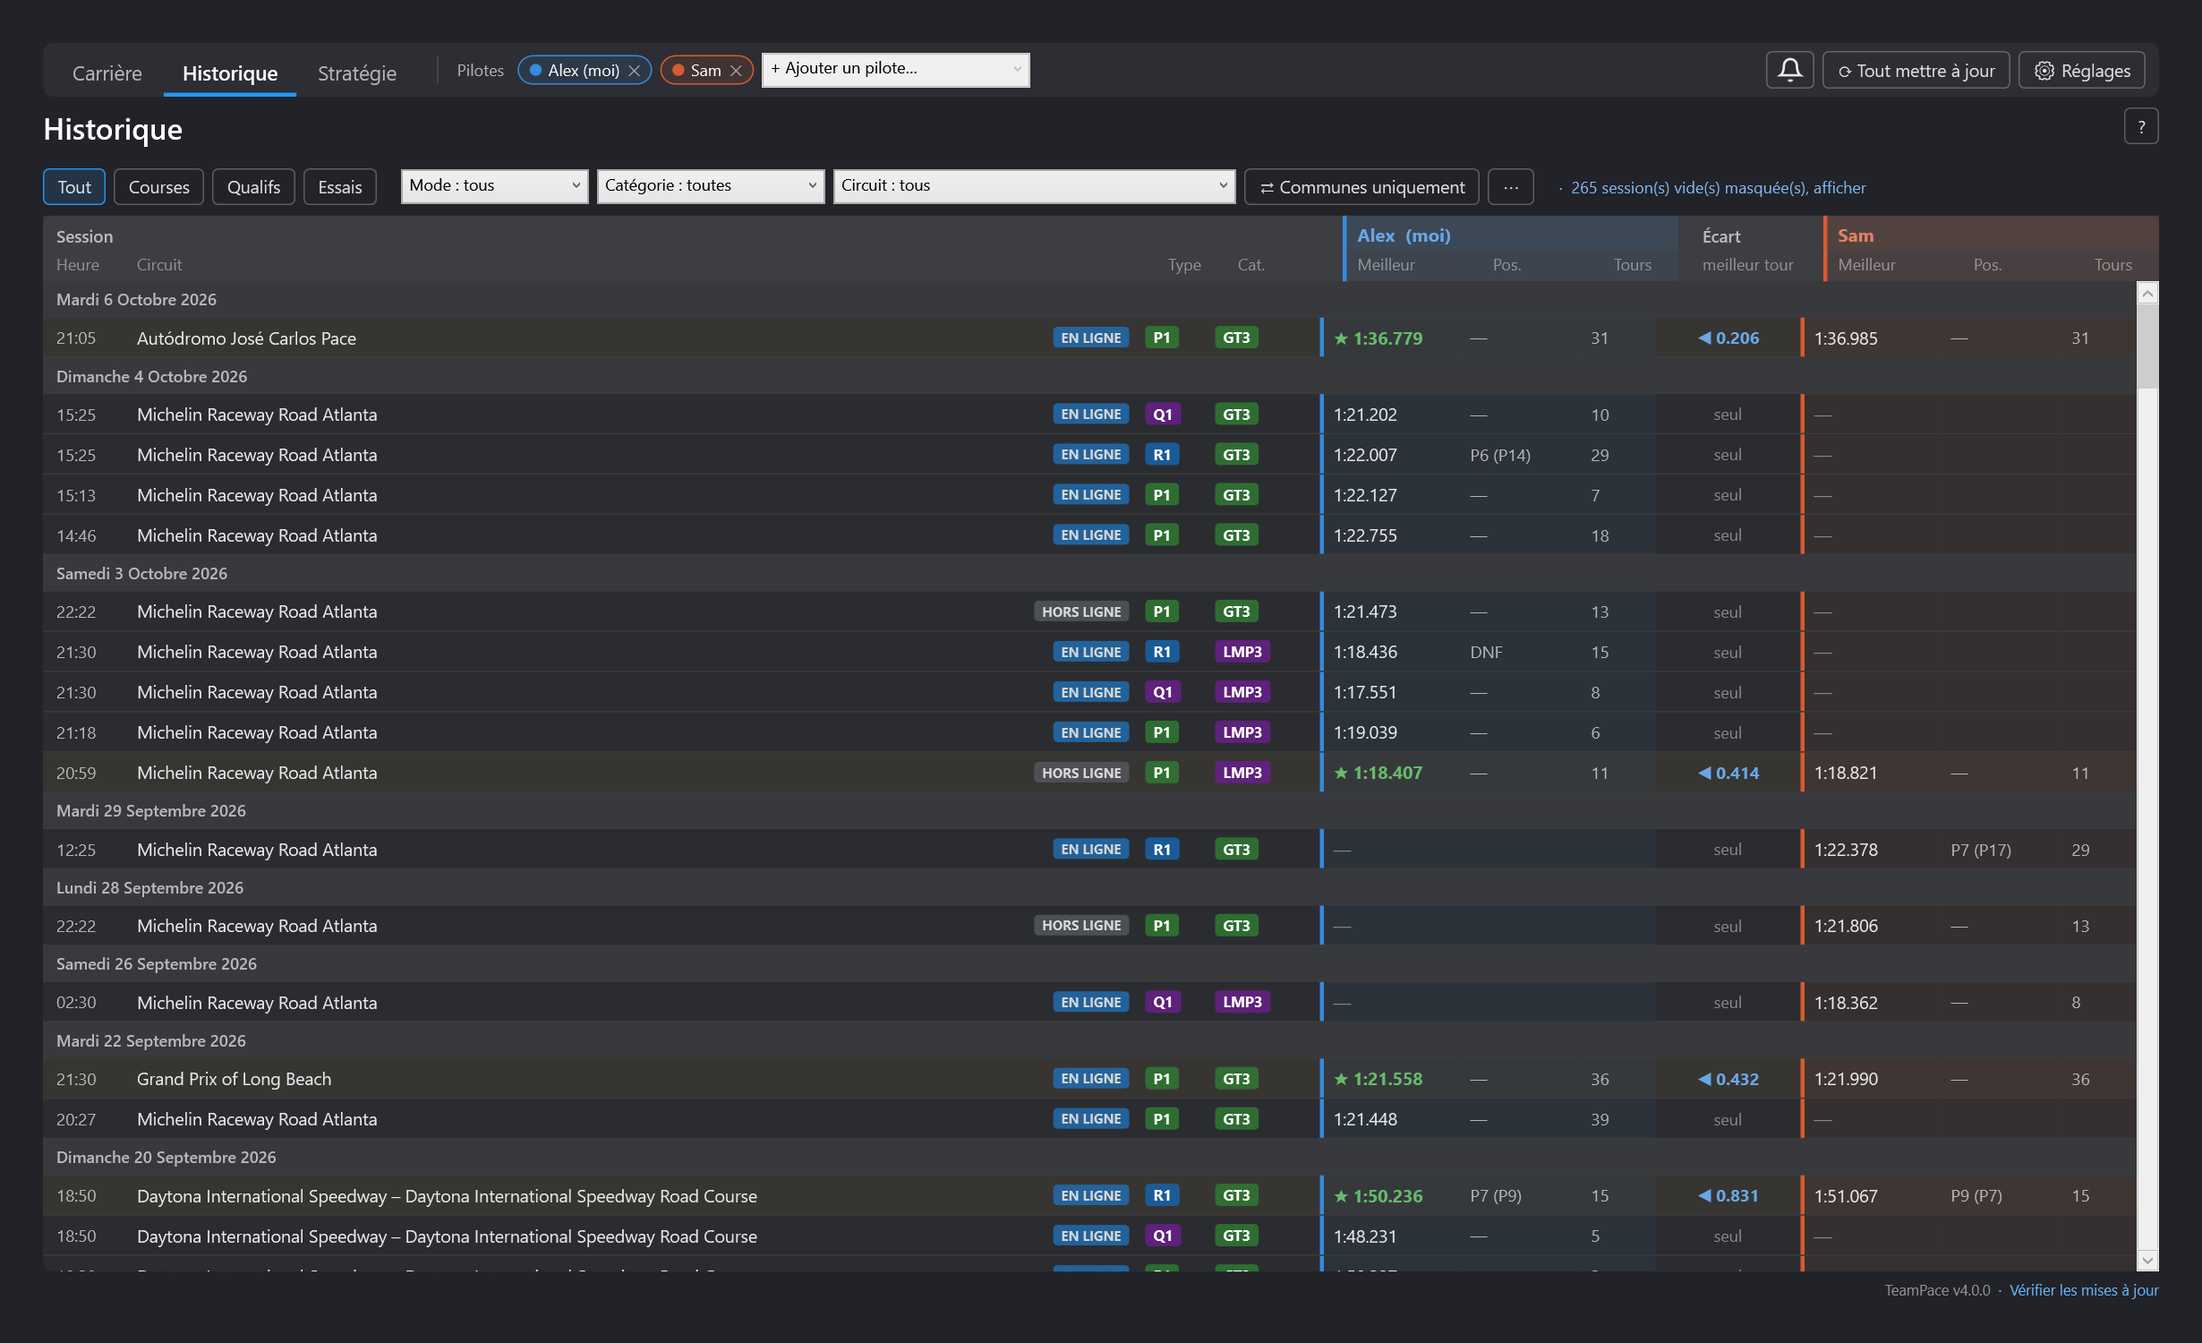
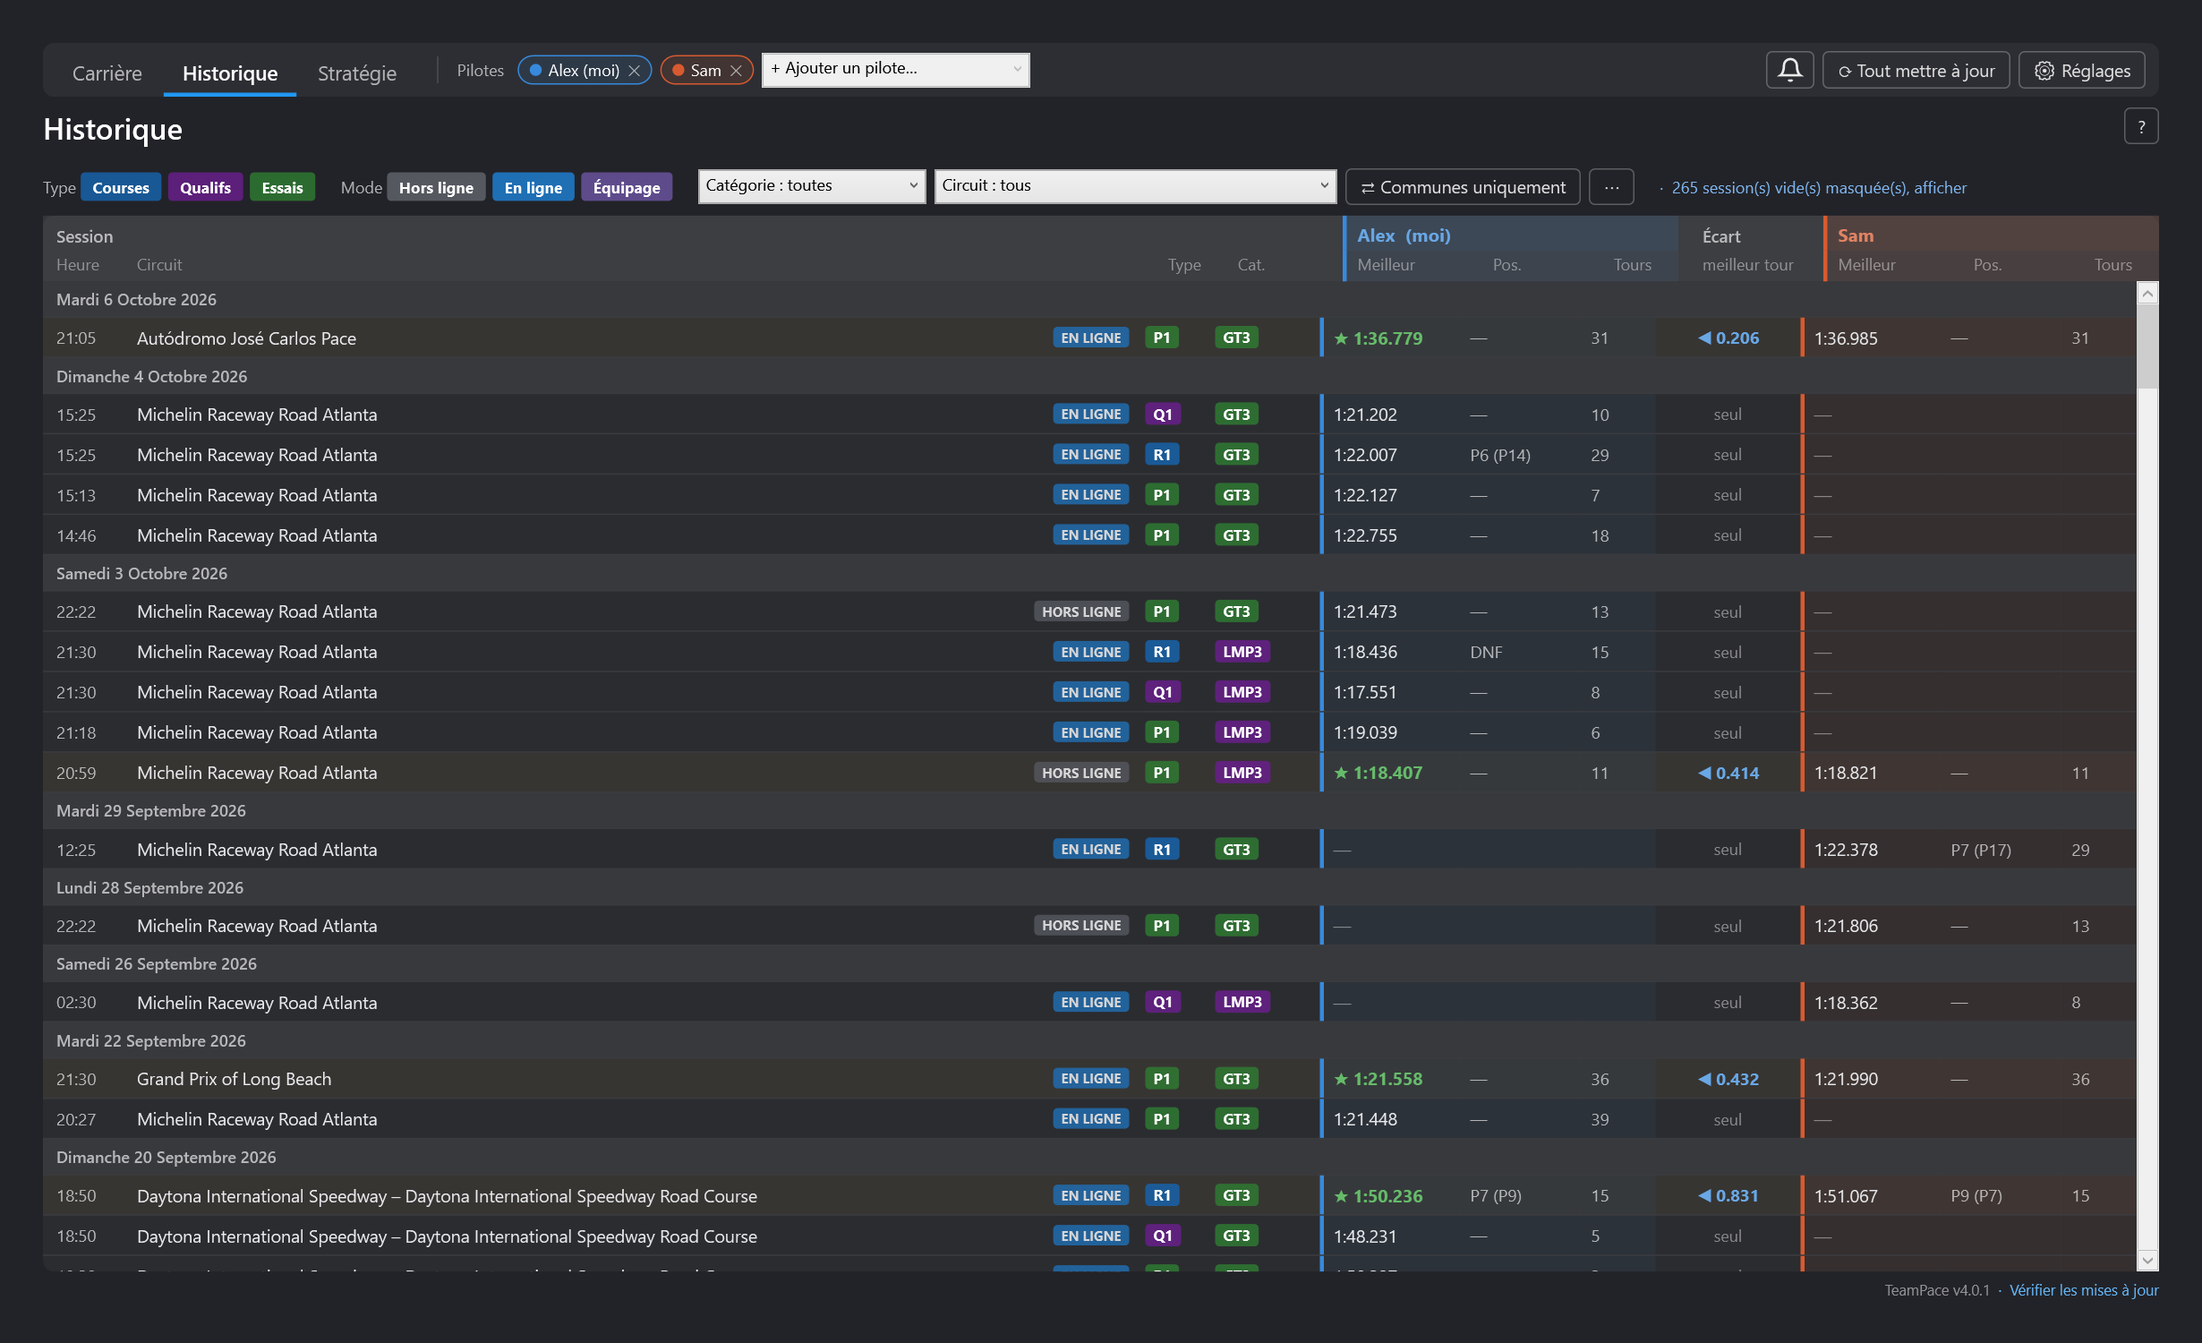
Release v4.0.2

Changed region(s): [[0.0, 0.1227, 0.3398, 0.1533], [0.5561, 0.1227, 0.865, 0.1533], [0.3707, 0.1227, 0.4325, 0.1533]]

diff --git a/AnalysisColumn.xaml b/AnalysisColumn.xaml
@@ -158,29 +158,29 @@
                 <TextBlock x:Name="TxtStVeTot" Style="{StaticResource BlockLine}"/>
             </StackPanel></Border>
 
-            <!-- The four tyres seen from above: wear per lap, the warmer the more worn -->
+            <!-- The car seen from above: four slim tyres coloured by their wear per lap, the value beside each -->
             <Border x:Name="StatsTirePanel" Style="{StaticResource AnaBlock}"><DockPanel>
                 <TextBlock DockPanel.Dock="Top" Style="{StaticResource BlockTitle}" Text="USURE PAR TOUR"/>
-                <Grid HorizontalAlignment="Center" Margin="0,2,0,0">
+                <Grid HorizontalAlignment="Center" Margin="0,4,0,0">
                     <Grid.ColumnDefinitions>
-                        <ColumnDefinition Width="58"/><ColumnDefinition Width="22"/><ColumnDefinition Width="58"/>
+                        <ColumnDefinition Width="52"/><ColumnDefinition Width="10"/><ColumnDefinition Width="30"/>
+                        <ColumnDefinition Width="10"/><ColumnDefinition Width="52"/>
                     </Grid.ColumnDefinitions>
                     <Grid.RowDefinitions>
-                        <RowDefinition Height="30"/><RowDefinition Height="8"/><RowDefinition Height="30"/>
+                        <RowDefinition Height="24"/><RowDefinition Height="10"/><RowDefinition Height="24"/>
                     </Grid.RowDefinitions>
-                    <Border Grid.Column="1" Grid.RowSpan="3" Width="10" Background="#22FFFFFF" CornerRadius="3"/>
-                    <Border x:Name="SqFL" Grid.Row="0" Grid.Column="0" CornerRadius="4" ToolTip="Avant gauche">
-                        <TextBlock x:Name="TxtStTireFL" FontSize="12.5" FontWeight="SemiBold" Foreground="White" HorizontalAlignment="Center" VerticalAlignment="Center"/>
-                    </Border>
-                    <Border x:Name="SqFR" Grid.Row="0" Grid.Column="2" CornerRadius="4" ToolTip="Avant droit">
-                        <TextBlock x:Name="TxtStTireFR" FontSize="12.5" FontWeight="SemiBold" Foreground="White" HorizontalAlignment="Center" VerticalAlignment="Center"/>
-                    </Border>
-                    <Border x:Name="SqRL" Grid.Row="2" Grid.Column="0" CornerRadius="4" ToolTip="Arrière gauche">
-                        <TextBlock x:Name="TxtStTireRL" FontSize="12.5" FontWeight="SemiBold" Foreground="White" HorizontalAlignment="Center" VerticalAlignment="Center"/>
-                    </Border>
-                    <Border x:Name="SqRR" Grid.Row="2" Grid.Column="2" CornerRadius="4" ToolTip="Arrière droit">
-                        <TextBlock x:Name="TxtStTireRR" FontSize="12.5" FontWeight="SemiBold" Foreground="White" HorizontalAlignment="Center" VerticalAlignment="Center"/>
-                    </Border>
+                    <!-- Body and axles -->
+                    <Border Grid.Column="2" Grid.RowSpan="3" CornerRadius="9,9,6,6" Background="#14FFFFFF" BorderBrush="#33FFFFFF" BorderThickness="1" Margin="0,-2,0,-2"/>
+                    <Border Grid.Column="1" Grid.ColumnSpan="3" Grid.Row="0" Height="2" Background="#33FFFFFF" VerticalAlignment="Center"/>
+                    <Border Grid.Column="1" Grid.ColumnSpan="3" Grid.Row="2" Height="2" Background="#33FFFFFF" VerticalAlignment="Center"/>
+                    <Border x:Name="SqFL" Grid.Row="0" Grid.Column="1" CornerRadius="3" ToolTip="Avant gauche"/>
+                    <Border x:Name="SqFR" Grid.Row="0" Grid.Column="3" CornerRadius="3" ToolTip="Avant droit"/>
+                    <Border x:Name="SqRL" Grid.Row="2" Grid.Column="1" CornerRadius="3" ToolTip="Arrière gauche"/>
+                    <Border x:Name="SqRR" Grid.Row="2" Grid.Column="3" CornerRadius="3" ToolTip="Arrière droit"/>
+                    <TextBlock x:Name="TxtStTireFL" Grid.Row="0" Grid.Column="0" FontSize="12.5" Foreground="#E6FFFFFF" HorizontalAlignment="Right" VerticalAlignment="Center" Margin="0,0,7,0"/>
+                    <TextBlock x:Name="TxtStTireFR" Grid.Row="0" Grid.Column="4" FontSize="12.5" Foreground="#E6FFFFFF" HorizontalAlignment="Left" VerticalAlignment="Center" Margin="7,0,0,0"/>
+                    <TextBlock x:Name="TxtStTireRL" Grid.Row="2" Grid.Column="0" FontSize="12.5" Foreground="#E6FFFFFF" HorizontalAlignment="Right" VerticalAlignment="Center" Margin="0,0,7,0"/>
+                    <TextBlock x:Name="TxtStTireRR" Grid.Row="2" Grid.Column="4" FontSize="12.5" Foreground="#E6FFFFFF" HorizontalAlignment="Left" VerticalAlignment="Center" Margin="7,0,0,0"/>
                 </Grid>
             </DockPanel></Border>
 

diff --git a/HistoryView.cs b/HistoryView.cs
@@ -26,7 +26,9 @@ namespace User.TeamPace
         }
 
         // Filters kept while browsing
-        private static string _type = "ALL", _class, _circuit, _mode;
+        private static string _class, _circuit;
+        private static readonly HashSet<string> _types = new HashSet<string>();   // "R", "Q", "P"; none = all
+        private static readonly HashSet<string> _modes = new HashSet<string>();   // "Hors ligne", "En ligne", "Équipage"; none = all
         private static bool _commonOnly, _simOnly, _showEmpty;
         private const int PageSize = 200;
 
@@ -92,8 +94,8 @@ namespace User.TeamPace
         private bool Passes(Event e)
         {
             var s = e.Any;
-            if (_type != "ALL" && !(s.SessionType ?? "").StartsWith(_type, StringComparison.OrdinalIgnoreCase)) return false;
-            if (_mode != null && Mode(e) != _mode) return false;
+            if (_types.Count > 0 && !_types.Contains(s.IsRace ? "R" : s.IsQuali ? "Q" : "P")) return false;
+            if (_modes.Count > 0 && !_modes.Contains(Mode(e))) return false;
             if (_class != null && LmuCategoryStyle.GetShortName(s.CarClass) != _class) return false;
             if (_circuit != null && s.TrackDisplayName != _circuit) return false;
             if (_commonOnly && e.Count < 2) return false;
@@ -106,21 +108,32 @@ namespace User.TeamPace
         private void BuildFilters(int emptyCount)
         {
             _filters.Children.Clear();
-            foreach (var t in new[] { new[] { "ALL", "Tout" }, new[] { "R", "Courses" }, new[] { "Q", "Qualifs" }, new[] { "P", "Essais" } })
+            // Clickable tags, like the categories of the career: none lit = everything
+            Action<string, HashSet<string>, string, string, string> tag = (key, set, text, bg, tip) =>
             {
-                var tag = t[0];
-                var b = Ui.Button(t[1]);
-                b.Margin = new Thickness(0, 0, 6, 0);
-                Ui.SetOn(b, _type == tag);
-                b.Click += (s, e) => { _type = tag; _shown = PageSize; Refresh(); };
+                var b = Ui.Badge(text, bg, 11.5);
+                b.Padding = new Thickness(9, 3, 9, 3);
+                b.Margin = new Thickness(0, 0, 5, 0);
+                b.Cursor = Cursors.Hand;
+                b.ToolTip = tip;
+                b.Opacity = set.Count == 0 || set.Contains(key) ? 1 : 0.3;
+                b.MouseLeftButtonDown += (snd, ev) => { if (!set.Remove(key)) set.Add(key); _shown = PageSize; Refresh(); };
                 _filters.Children.Add(b);
-            }
-            _filters.Children.Add(new Border { Width = 12 });
+            };
+            _filters.Children.Add(Ui.T("Type ", 12, Ui.Muted));
+            tag("R", _types, "Courses", "#CC1565B0", "Afficher ou masquer les courses");
+            tag("Q", _types, "Qualifs", "#CC6A1E8E", "Afficher ou masquer les qualifications");
+            tag("P", _types, "Essais", "#CC2E7D32", "Afficher ou masquer les essais");
+            _filters.Children.Add(new Border { Width = 14 });
+            _filters.Children.Add(Ui.T("Mode ", 12, Ui.Muted));
+            tag("Hors ligne", _modes, "Hors ligne", "#FF55585F", "Sessions hors ligne");
+            tag("En ligne", _modes, "En ligne", "#FF1F6FB5", "En ligne, seul dans la voiture");
+            tag("Équipage", _modes, "Équipage", "#FF5E4B8B", "En ligne, voiture partagée avec des coéquipiers");
+            _filters.Children.Add(new Border { Width = 14 });
 
             var classes = new SortedSet<string>();
             var circuits = new SortedSet<string>(StringComparer.OrdinalIgnoreCase);
             foreach (var e in _events) { classes.Add(LmuCategoryStyle.GetShortName(e.Any.CarClass)); circuits.Add(e.Any.TrackDisplayName); }
-            _filters.Children.Add(Combo("Mode : tous", new[] { "Hors ligne", "En ligne", "Équipage" }, _mode, v => { _mode = v; _shown = PageSize; Refresh(); }, 140));
             _filters.Children.Add(Combo("Catégorie : toutes", classes, _class, v => { _class = v; _shown = PageSize; Refresh(); }, 170));
             _filters.Children.Add(Combo("Circuit : tous", circuits, _circuit, v => { _circuit = v; _shown = PageSize; Refresh(); }, 300));
 

diff --git a/AnalysisColumn.xaml.cs b/AnalysisColumn.xaml.cs
@@ -41,6 +41,13 @@ namespace User.TeamPace
             Session = session;
             InitializeComponent();
             LapGrid.MouseDoubleClick += LapGrid_MouseDoubleClick;
+            // The table shows every lap; the page scrolls, the wheel over the table included
+            LapGrid.PreviewMouseWheel += (s, e) =>
+            {
+                if (e.Handled) return;
+                e.Handled = true;
+                RaiseEvent(new System.Windows.Input.MouseWheelEventArgs(e.MouseDevice, e.Timestamp, e.Delta) { RoutedEvent = UIElement.MouseWheelEvent, Source = this });
+            };
             Loaded   += (s, e) => { Folded += ApplyFolds; ApplyFolds(); };
             Unloaded += (s, e) => Folded -= ApplyFolds;
             Build();
@@ -203,10 +210,7 @@ namespace User.TeamPace
 
         /// <summary>Same height for every driver's pit block, sized on the longest list.</summary>
         /// <summary>The lap table fills the visible height; the blocks above scroll away.</summary>
-        public void SetLapTableHeight(double height)
-        {
-            LapGrid.Height = Math.Max(260, height);
-        }
+        public void SetLapTableHeight(double height) { }
 
         public void SetPitBlockStops(int stops) { }
 
@@ -484,15 +488,16 @@ namespace User.TeamPace
             return cnt > 0 ? sum / cnt : double.NaN;
         }
 
-        /// <summary>A tyre square: its wear per lap, from green (light) to red (heavy).</summary>
-        private static void Tyre(Border square, TextBlock text, double wear)
+        /// <summary>A tyre of the top view: coloured by its wear per lap (green light, amber, coral heavy), the value beside it.</summary>
+        private static void Tyre(Border tyre, TextBlock text, double wear)
         {
-            if (double.IsNaN(wear)) { text.Text = "—"; square.Background = new SolidColorBrush(Color.FromArgb(30, 255, 255, 255)); return; }
+            if (double.IsNaN(wear)) { text.Text = "—"; tyre.Background = new SolidColorBrush(Color.FromArgb(40, 255, 255, 255)); return; }
             text.Text = string.Format(Inv, "{0:F2} %", wear);
-            double k = Math.Max(0, Math.Min(1, (wear - 0.3) / 0.9));   // 0.3 %/lap → green, 1.2 %/lap → red
-            var green = Color.FromRgb(0x2E, 0x7D, 0x32); var amber = Color.FromRgb(0xC7, 0x8A, 0x10); var red = Color.FromRgb(0xC6, 0x28, 0x28);
+            double k = Math.Max(0, Math.Min(1, (wear - 0.3) / 0.9));   // 0.3 %/lap → green, 1.2 %/lap → coral
+            var green = Color.FromRgb(0x4C, 0xAF, 0x7D); var amber = Color.FromRgb(0xF2, 0xB1, 0x3C); var coral = Color.FromRgb(0xEF, 0x6C, 0x5A);
             Func<Color, Color, double, Color> mix = (a, b, t) => Color.FromRgb((byte)(a.R + (b.R - a.R) * t), (byte)(a.G + (b.G - a.G) * t), (byte)(a.B + (b.B - a.B) * t));
-            square.Background = new SolidColorBrush(k < 0.5 ? mix(green, amber, k * 2) : mix(amber, red, (k - 0.5) * 2));
+            var c = k < 0.5 ? mix(green, amber, k * 2) : mix(amber, coral, (k - 0.5) * 2);
+            tyre.Background = new LinearGradientBrush(c, Color.FromArgb(200, c.R, c.G, c.B), 90);
         }
 
         // Measured when captured live, otherwise estimated from lap times:

diff --git a/TeamPaceControl.xaml.cs b/TeamPaceControl.xaml.cs
@@ -738,7 +738,6 @@ namespace User.TeamPace
                     _analysisCols.Add(col);
                     // The column scrolls as a whole, so the lap table stays reachable under tall blocks
                     var scroll = new ScrollViewer { VerticalScrollBarVisibility = ScrollBarVisibility.Auto, Content = col };
-                    scroll.SizeChanged += (sv, e) => col.SetLapTableHeight(scroll.ViewportHeight - 40);
                     AddColumn(d, scroll, null);
                 }
                 else

diff --git a/Properties/AssemblyInfo.cs b/Properties/AssemblyInfo.cs
@@ -7,5 +7,5 @@ using System.Runtime.InteropServices;
 [assembly: AssemblyProduct("TeamPace")]
 [assembly: AssemblyCopyright("")]
 [assembly: ComVisible(false)]
-[assembly: AssemblyVersion("4.0.1.0")]
-[assembly: AssemblyFileVersion("4.0.1.0")]
+[assembly: AssemblyVersion("4.0.2.0")]
+[assembly: AssemblyFileVersion("4.0.2.0")]

diff --git a/README.md b/README.md
@@ -178,8 +178,9 @@ par pilote, **plus c'est bas, plus c'est rapide** (★ = record, anneau doré = 
 
 Une ligne par session, groupées par jour. Une session courue par plusieurs pilotes affichés n'occupe
 qu'**une ligne** (fond doré), avec le résultat de chacun dans son bloc et l'écart au milieu. Filtres :
-type de session, **mode** (*hors ligne*, *en ligne* seul dans la voiture, *équipage* en ligne
-avec la voiture partagée, repéré sur chaque ligne), catégorie, circuit et **⇄ Communes uniquement** ; le
+étiquettes cliquables de **type** (courses, qualifs, essais) et de **mode** (*hors ligne*, *en
+ligne* seul dans la voiture, *équipage* en ligne avec la voiture partagée, repéré sur chaque ligne),
+puis catégorie, circuit et **⇄ Communes uniquement** ; le
 menu **⋯** garde les filtres rares (simulation complète). Les sessions
 sans aucun tour chronométré sont masquées (un lien les réaffiche). Double-clic : l'analyse.
 
@@ -195,15 +196,15 @@ Chaque colonne se lit de haut en bas :
   **invalides** : limites de piste, contacts et pénalités ;
 - les **statistiques** des tours cochés : *Rythme* (moyenne et écart à la meilleure moyenne de
   l'équipe), *Régularité*, *Carburant* (litres par tour), *Énergie virtuelle* (% par tour et
-  « 100 % = 30 tours »), *Usure* (les 4 pneus vus du dessus, du vert au rouge selon l'usure par
-  tour) et *Arrêts* (une frise des tours avec un repère par arrêt ; au survol : temps perdu, voie,
+  « 100 % = 30 tours »), *Usure* (la voiture vue de dessus, chaque pneu coloré du vert au
+  corail selon son usure par tour) et *Arrêts* (une frise des tours avec un repère par arrêt ; au survol : temps perdu, voie,
   arrêt, carburant, pneus) ;
 - le **tableau tour par tour** : **Δ pilotes** donne l'écart au plus rapide de l'équipe sur chaque
   tour (★ = le plus rapide). **Rythme** coche les tours représentatifs ; cochez ou décochez des tours
   et les statistiques se recalculent. Un double-clic sur un tour ouvre sa télémétrie.
 
 **▾ Statistiques** et **▾ Tour par tour** se replient d'un clic, chez tous les pilotes à la fois :
-statistiques repliées, le tableau prend tout l'écran. Le bouton **Télémétrie →** superpose les tours
+le tableau montre tous les tours et la page défile. Le bouton **Télémétrie →** superpose les tours
 de la séance.
 
 Le bouton **?** affiche la légende (capture ci-dessus). Les couleurs : vert = meilleur tour,

diff --git a/CHANGELOG.md b/CHANGELOG.md
@@ -3,6 +3,15 @@
 Chaque version est publiée dans les [releases](../../releases) et proposée automatiquement dans
 TeamPace par le bandeau de mise à jour.
 
+## 4.0.2
+
+- **Usure des pneus** : la voiture vue de dessus, quatre pneus fins colorés selon l'usure par tour
+  (du vert au corail) et la valeur à côté de chacun.
+- **Tableau tour par tour** : il montre tous les tours, sans défilement interne ; c'est la page qui
+  défile (molette comprise au-dessus du tableau).
+- **Historique** : le type (courses, qualifs, essais) et le mode (hors ligne, en ligne, équipage)
+  se filtrent par étiquettes cliquables, comme les catégories de la Carrière.
+
 ## 4.0.1
 
 - **Toutes les sessions en équipage sont partagées** (essais, qualif, course), plus seulement les
